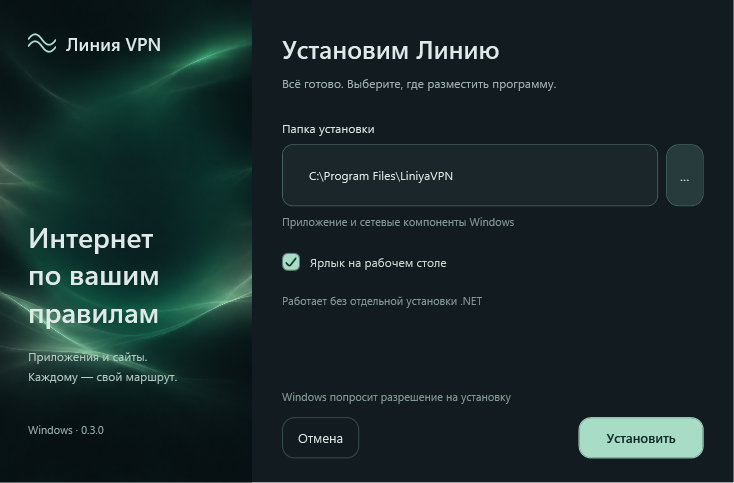
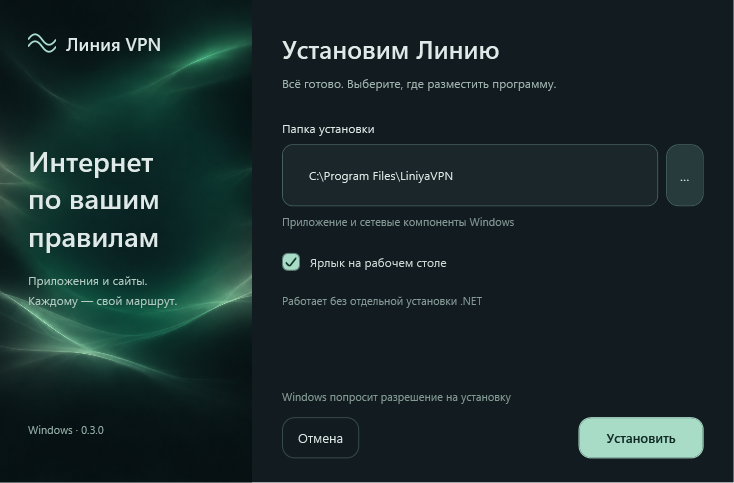
Refresh installer preview and default service list

diff --git a/README.md b/README.md
@@ -2,6 +2,8 @@
 
 Приложения и сайты — по вашим правилам.
 
+Начальный набор: ChatGPT (сайт), YouTube, Telegram (приложение), Gemini и Speedtest. Остальные соединения по умолчанию идут напрямую.
+
 **[Скачать установщик для Windows x64](https://github.com/nkorolev12/vpn-releases/releases/latest/download/LiniyaVPN-Setup.exe)**
 
 ![Установка Линии VPN](assets/installer-v0.3.0.png)
